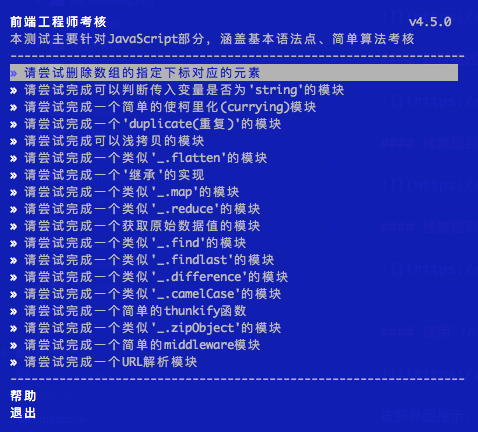
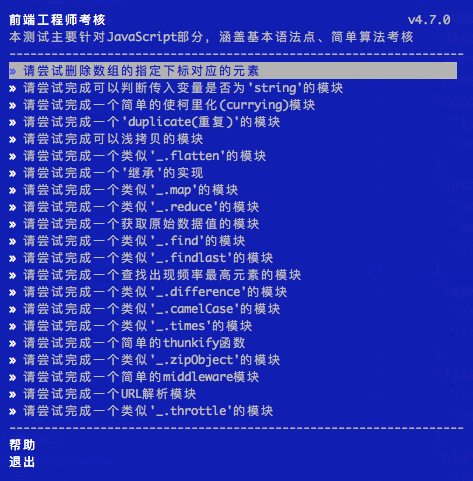
new exam

Changed region(s): [[0.0, 0.0301, 0.9767, 0.9931]]

diff --git a/bin/questions/13_findmost/answer.js b/bin/questions/13_findmost/answer.js
@@ -1,0 +1,42 @@
+'use strict';
+
+/**
+ *
+ *  尝试完成如下功能：
+ *
+ *  var arr1 = [3, 6, 9, 6];
+ *
+ *  var found1 = findmost(arr1);
+ *
+ *  console.log(found1); // 6
+ *
+ *  var arr2 = [{ name: 'ShangHai', size: 6340.5 }, { name: 'BeiJing', size: 16410.54 }, { name: 'ShangHai', size: 6340.5 }];
+ *
+ *  var found2 = findmost(arr2, function(item){
+ *      return item.name;
+ *  });
+ *
+ *  console.log(found2); // { name: 'ShangHai', size: 6340.5 }
+ *
+ **/
+var findmost = function(array, identity) {
+    var countObj = array.reduce(function(previous, key) {
+        var k = identity ? identity(key) : key;
+        previous[k] = previous[k] ? ++previous[k] : 1;
+        return previous;
+    }, {});
+
+    var result = Object.keys(countObj).reduce(function(previous, key) {
+        return countObj[previous] > countObj[key] ? previous : key;
+    });
+
+    if (!identity) {
+        return result;
+    }
+
+    return array.find(function(item) {
+        return identity(item) === result;
+    });
+};
+
+module.exports = findmost;

diff --git a/bin/questions/13_findmost/Test.js b/bin/questions/13_findmost/Test.js
@@ -1,0 +1,34 @@
+'use strict';
+
+var assert = require('assert');
+
+describe('test basic findmost', function() {
+
+    var path = require('path');
+    var findmost = require(path.resolve(process.cwd(), 'findmost', 'index'));
+
+    it('basic test', function() {
+        var arr1 = [
+            'nan',
+            'feng',
+            'hao',
+            'li',
+            'feng',
+            'feng',
+            'li'
+        ];
+
+        var res = findmost(arr1);
+        assert.equal(res, 'feng', '基本测试失败');
+    });
+
+    it('with object', function() {
+        var arr1 = [{name: 'SX'}, {name: 'SH'}, {name: 'SX'}];
+
+        var res = findmost(arr1, function(item) {
+            return item.name;
+        });
+        assert.deepEqual(res, {name: 'SX'}, '对象测试失败');
+    });
+
+});

diff --git a/bin/questions/13_findmost/index.js b/bin/questions/13_findmost/index.js
@@ -1,0 +1,26 @@
+'use strict';
+
+/**
+ *
+ *  尝试完成如下功能：
+ *
+ *  var arr1 = [3, 6, 9, 6];
+ *
+ *  var found1 = findmost(arr1);
+ *
+ *  console.log(found1); // 6
+ *
+ *  var arr2 = [{ name: 'ShangHai', size: 6340.5 }, { name: 'BeiJing', size: 16410.54 }, { name: 'ShangHai', size: 6340.5 }];
+ *
+ *  var found2 = findmost(arr2, function(item){
+ *      return item.name;
+ *  });
+ *
+ *  console.log(found2); // { name: 'ShangHai', size: 6340.5 }
+ *
+ **/
+var findmost = function(array, identity) {
+    //在这里实现
+};
+
+module.exports = findmost;

diff --git a/bin/questions/13_findmost/Task.js b/bin/questions/13_findmost/Task.js
@@ -1,0 +1,21 @@
+'use strict';
+
+var Base = require('../../libs/Base');
+
+var utils = require('../../libs/Utils');
+
+var Question = Base.extend({
+    id: 'findmost',
+    name: '请尝试完成一个查找出现频率最高元素的模块',
+    prepare: function() {
+        var path = require('path');
+        var index = path.resolve(process.cwd(), this.id, 'index.js');
+        if (utils.fileExist(index)) {
+            return;
+        }
+        utils.copyFile(path.resolve(__dirname, 'index.js'), index);
+    }
+});
+
+
+module.exports = Question;
